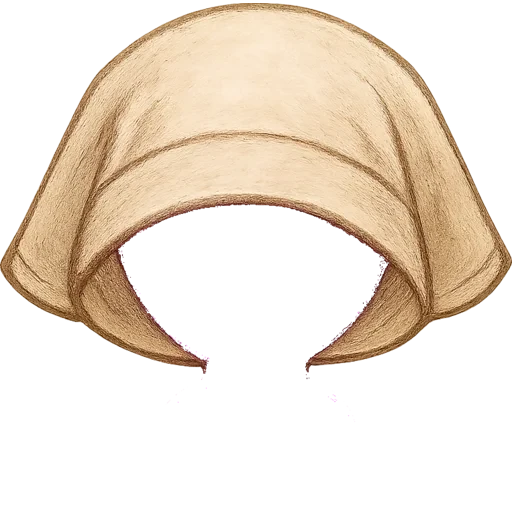
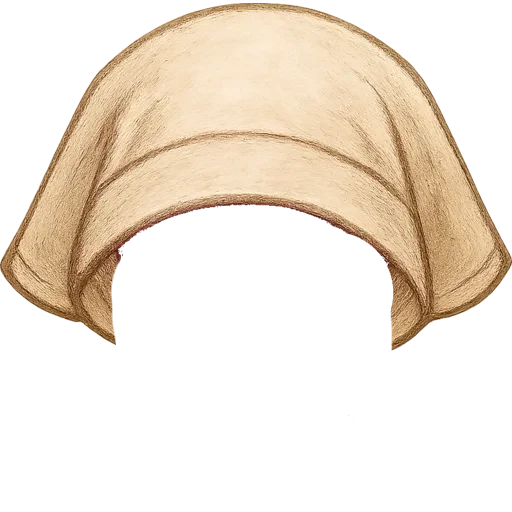
feat(wardrobe): 補齊四包穿戴素材對位框、移除兩件配件並對齊預設造型 (#265)
新增 castle/rural/urban/wild 多件穿戴素材對位框；移除 castleGoldLaceGloves／countrysideWoodBracelet 兩件配件與對應 webp；重匯出 rural cloth-cap；default-state 預設 owned/outfit 對齊重作後衣櫃並移除 dangling blueBoots/pearlTiara、headTop 改 none。assetLint PASS。

Changed region(s): [[0.5938, 0.4688, 0.7812, 0.7188], [0.2188, 0.5, 0.4062, 0.7188]]

diff --git a/content-package/wardrobe/_shared/asset-target-overrides.js b/content-package/wardrobe/_shared/asset-target-overrides.js
@@ -5,8 +5,64 @@
 //
 // 本輪衣物資源包重作只負責產出穿戴視角素材；位置大小由後續人工調整。
 export const assetTargetOverrides = Object.freeze({
+  "castle/hairstyle-crown-braided-updo": { left: 186, top: 269, right: 331, bottom: 427 },
+  "castle/hairstyle-gold-hairnet-long": { left: 165, top: 278, right: 349, bottom: 487 },
+  "castle/hairstyle-pearl-high-bun": { left: 165, top: 256, right: 349, bottom: 442 },
+  "castle/hairstyle-side-curl-princess": { left: 168, top: 268, right: 352, bottom: 471 },
+  "castle/headtop-small-royal-crown": { left: 196, top: 225, right: 315, bottom: 340 },
+  "castle/neck-jewel-brooch": { left: 222, top: 475, right: 292, bottom: 509 },
+  "castle/neck-pearl-necklace": { left: 222, top: 381, right: 287, bottom: 469 },
+  "castle/outfit-gold-embroidered-court-gown": { left: 141, top: 390, right: 371, bottom: 715 },
+  "castle/outfit-pearl-white-ball-gown": { left: 145, top: 390, right: 365, bottom: 687 },
+  "castle/outfit-royal-blue-train-dress": { left: 133, top: 393, right: 397, bottom: 718 },
+  "castle/outfit-wine-velvet-princess-dress": { left: 140, top: 391, right: 370, bottom: 695 },
+  "castle/shoes-gold-trim-court-heels": { left: 208, top: 674, right: 303, bottom: 768 },
+  "castle/shoes-jeweled-strap-soft": { left: 207, top: 658, right: 302, bottom: 768 },
+  "castle/shoes-pearl-satin-dance": { left: 214, top: 691, right: 296, bottom: 768 },
+  "castle/shoes-rose-embroidered-formal": { left: 209, top: 697, right: 301, bottom: 766 },
+  "rural/hairstyle-kerchief-short-hair": { left: 175, top: 267, right: 307, bottom: 421 },
+  "rural/hairstyle-linen-tie-braid": { left: 166, top: 260, right: 350, bottom: 497 },
+  "rural/hairstyle-natural-short-curls": { left: 196, top: 269, right: 319, bottom: 441 },
+  "rural/hairstyle-simple-low-ponytail": { left: 166, top: 264, right: 341, bottom: 459 },
+  "rural/hand-straw-basket": { left: 294, top: 544, right: 404, bottom: 654 },
+  "rural/headtop-cloth-cap": { left: 187, top: 250, right: 327, bottom: 390 },
+  "rural/headtop-head-kerchief": { left: 210, top: 246, right: 350, bottom: 386 },
+  "rural/outfit-beige-linen-dress": { left: 166, top: 395, right: 343, bottom: 642 },
+  "rural/outfit-grass-green-village-dress": { left: 155, top: 384, right: 361, bottom: 709 },
+  "rural/outfit-linen-white-apron-dress": { left: 162, top: 389, right: 356, bottom: 687 },
+  "rural/outfit-terracotta-jacket-skirt": { left: 141, top: 393, right: 371, bottom: 695 },
+  "rural/shoes-grass-walking": { left: 207, top: 702, right: 307, bottom: 768 },
+  "rural/shoes-rough-leather-short-boots": { left: 201, top: 698, right: 311, bottom: 768 },
+  "rural/shoes-simple-cloth": { left: 201, top: 702, right: 311, bottom: 766 },
+  "rural/shoes-wooden-clogs": { left: 211, top: 713, right: 302, bottom: 766 },
+  "urban/hairstyle-low-ponytail": { left: 181, top: 263, right: 351, bottom: 442 },
   "urban/hairstyle-ribbon-long-straight": { left: 175, top: 268, right: 348, bottom: 465 },
   "urban/hairstyle-side-braid": { left: 173, top: 269, right: 343, bottom: 478 },
+  "urban/hairstyle-twin-braids": { left: 174, top: 269, right: 339, bottom: 476 },
+  "urban/hand-leather-waist-bag": { left: 305, top: 535, right: 415, bottom: 645 },
+  "urban/hand-small-town-bag": { left: 278, top: 502, right: 388, bottom: 612 },
+  "urban/headtop-small-round-hat": { left: 213, top: 240, right: 319, bottom: 337 },
+  "urban/neck-plaid-scarf": { left: 202, top: 387, right: 312, bottom: 497 },
   "urban/outfit-grey-blue-town-dress": { left: 153, top: 392, right: 359, bottom: 619 },
-  "urban/outfit-milk-tea-tailored-coat": { left: 141, top: 381, right: 371, bottom: 584 }
+  "urban/outfit-milk-tea-tailored-coat": { left: 141, top: 381, right: 371, bottom: 614 },
+  "urban/outfit-olive-short-cape-set": { left: 144, top: 384, right: 374, bottom: 626 },
+  "urban/outfit-plaid-vest-long-skirt": { left: 141, top: 388, right: 371, bottom: 690 },
+  "urban/shoes-brown-leather-ankle-boots": { left: 200, top: 675, right: 310, bottom: 768 },
+  "urban/shoes-buckle-leather": { left: 201, top: 685, right: 311, bottom: 766 },
+  "urban/shoes-low-heel-lace": { left: 201, top: 658, right: 311, bottom: 768 },
+  "urban/shoes-town-walking-boots": { left: 197, top: 683, right: 316, bottom: 766 },
+  "wild/hairstyle-elf-side-braid": { left: 164, top: 264, right: 348, bottom: 554 },
+  "wild/hairstyle-flower-wreath-long-waves": { left: 164, top: 270, right: 348, bottom: 510 },
+  "wild/hairstyle-starlight-half-up": { left: 157, top: 258, right: 349, bottom: 548 },
+  "wild/hairstyle-vine-braid": { left: 152, top: 262, right: 361, bottom: 552 },
+  "wild/hand-vine-bracelet": { left: 201, top: 232, right: 311, bottom: 342 },
+  "wild/headside-star-hair-clip": { left: 199, top: 233, right: 299, bottom: 333 },
+  "wild/headtop-flower-wreath": { left: 186, top: 240, right: 326, bottom: 380 },
+  "wild/neck-crystal-pendant": { left: 201, top: 376, right: 311, bottom: 486 },
+  "wild/outfit-aqua-magic-dress": { left: 141, top: 367, right: 371, bottom: 692 },
+  "wild/outfit-gauze-forest-princess-dress": { left: 141, top: 362, right: 371, bottom: 687 },
+  "wild/outfit-petal-fairy-dress": { left: 141, top: 376, right: 371, bottom: 701 },
+  "wild/outfit-vine-decorated-long-skirt": { left: 142, top: 391, right: 372, bottom: 651 },
+  "wild/shoes-flower-decorated": { left: 211, top: 683, right: 301, bottom: 768 },
+  "wild/shoes-vine-lace-sandals": { left: 201, top: 656, right: 311, bottom: 766 }
 });

diff --git a/game-engine/state/default-state.js b/game-engine/state/default-state.js
@@ -13,12 +13,12 @@ export const princessStart = {
   // issue #131：背景花紋（spec#6），與識別色組成公主視覺主題；"none"=無花紋。
   backgroundPattern: "none",
   coins: 200,
-  owned: ["softBrownHair", "yumiStarterHair", "solStarterHair", "rosaStarterHair", "starterPajama", "twinBraidHair", "blueDress", "pinkSlippers", "blueBoots", "pearlTiara", "roundGlasses", "starMask"],
+  owned: ["softBrownHair", "yumiStarterHair", "solStarterHair", "rosaStarterHair", "starterPajama", "urbanSideBraid", "castleGoldHairnetLongHair", "urbanLowPonytail", "urbanRibbonLongHair", "countrysideNaturalShortCurls", "fairyVineBraid", "countrysideLowPonytail", "urbanMilkTeaCoat", "countrysideWoodenClogs", "urbanWalkingBoots", "castlePearlSatinShoes", "countrysideRoughLeatherBoots", "castleGoldTrimCourtHeels", "urbanPlaidVestLongSkirt", "urbanGreyBlueTownDress", "castleJeweledStrapSoftShoes"],
   outfit: {
-    hairstyle: "twinBraidHair",
-    outfit: "blueDress",
-    shoes: "blueBoots",
-    headTop: "pearlTiara",
+    hairstyle: "countrysideLowPonytail",
+    outfit: "urbanGreyBlueTownDress",
+    shoes: "countrysideWoodenClogs",
+    headTop: "none",
     headSide: "none",
     faceEyes: "none",
     faceMask: "none",

diff --git a/content-package/wardrobe/castle/manifest.js b/content-package/wardrobe/castle/manifest.js
@@ -23,6 +23,5 @@ export const castleItems = [
   wearable({ id: "castleSmallCrown", storeId: "castleSeamstress", type: "headTop", name: "Small royal crown", cost: 240, icon: "Acc", asset: "headtop-small-royal-crown" }),
   wearable({ id: "castlePearlNecklace", storeId: "castleSeamstress", type: "neck", name: "Pearl necklace", cost: 170, icon: "Acc", asset: "neck-pearl-necklace" }),
   wearable({ id: "castleJewelBrooch", storeId: "castleSeamstress", type: "neck", name: "Jewel brooch", cost: 175, icon: "Acc", asset: "neck-jewel-brooch" }),
-  wearable({ id: "castleGoldLaceGloves", storeId: "castleSeamstress", type: "hand", name: "Gold lace gloves", cost: 160, icon: "Acc", asset: "hand-gold-lace-gloves" })
 ];
 //#endregion Castle 衣物資源包

diff --git a/content-package/wardrobe/rural/manifest.js b/content-package/wardrobe/rural/manifest.js
@@ -23,6 +23,5 @@ export const ruralItems = [
   wearable({ id: "countrysideHeadKerchief", storeId: "workwearStall", type: "headTop", name: "Head kerchief", cost: 80, icon: "Acc", asset: "headtop-head-kerchief" }),
   wearable({ id: "countrysideStrawBasket", storeId: "workwearStall", type: "hand", name: "Straw basket", cost: 110, icon: "Acc", asset: "hand-straw-basket" }),
   wearable({ id: "countrysideClothCap", storeId: "workwearStall", type: "headTop", name: "Cloth cap", cost: 90, icon: "Acc", asset: "headtop-cloth-cap" }),
-  wearable({ id: "countrysideWoodBracelet", storeId: "workwearStall", type: "hand", name: "Wooden bracelet", cost: 75, icon: "Acc", asset: "hand-wooden-bracelet" })
 ];
 //#endregion Countryside 衣物資源包